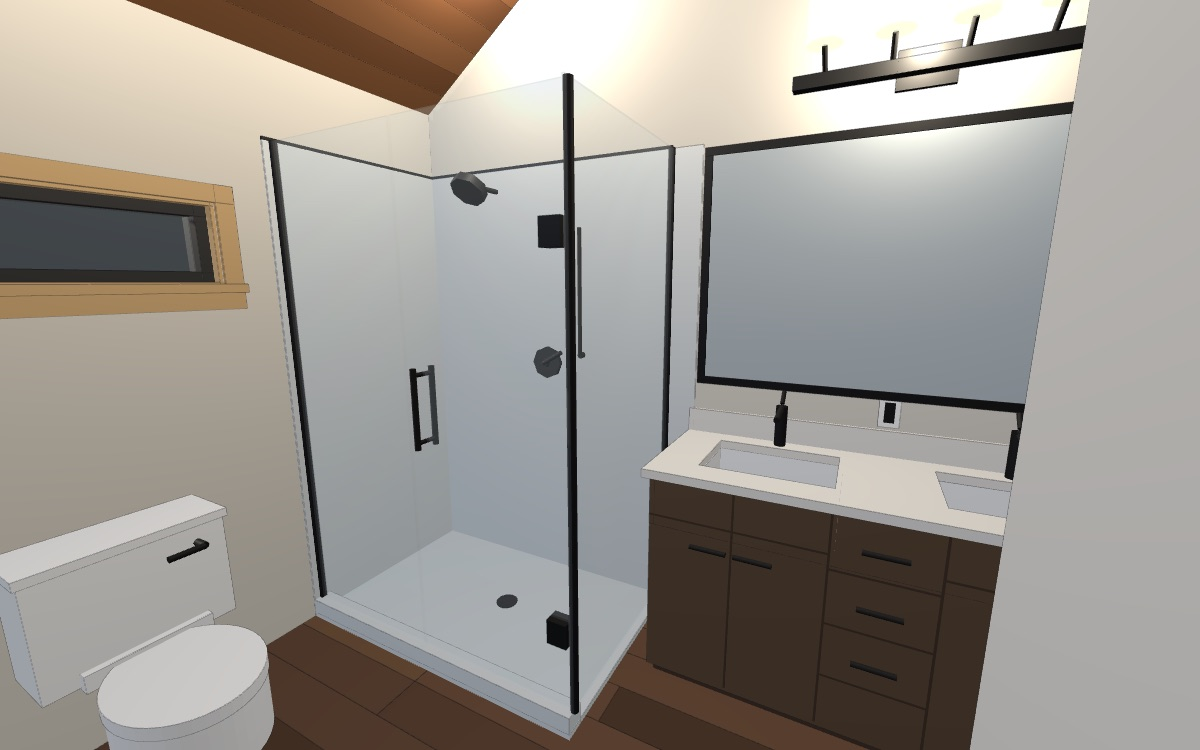
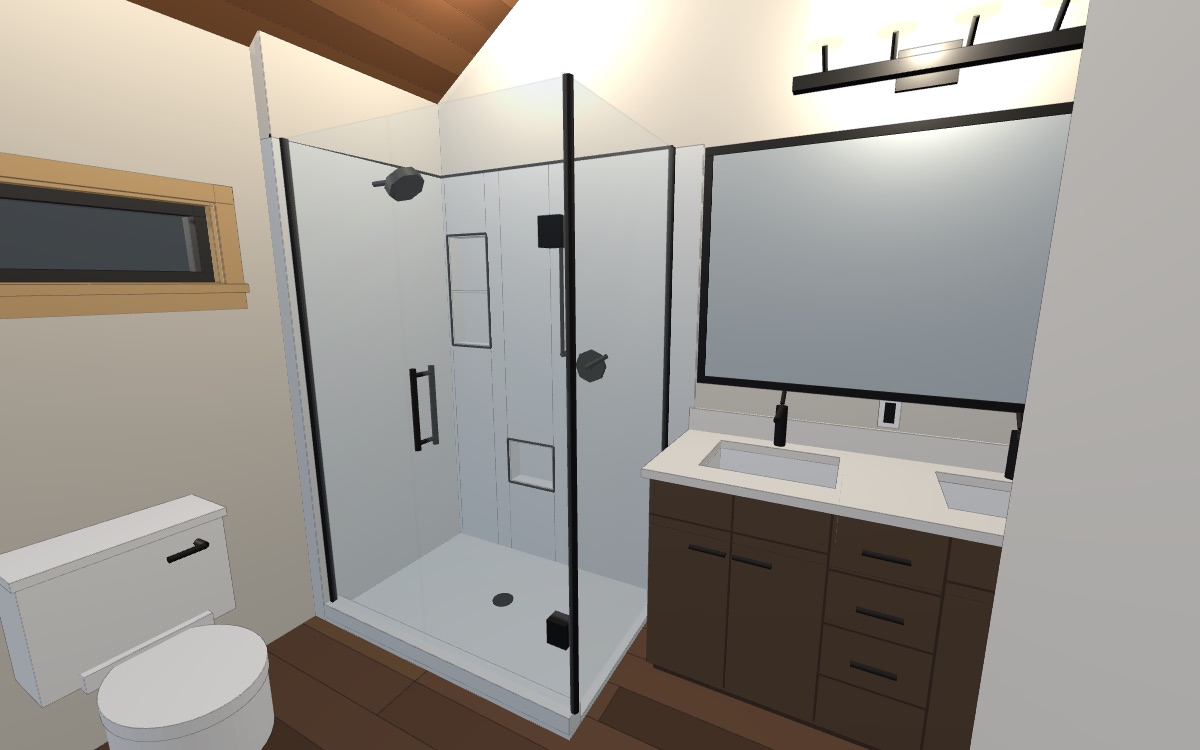
feat: option 1 west-wall shower head, stair-wall niches and a two-mirror switch

diff --git a/main-bath-option-1.html b/main-bath-option-1.html
@@ -55,7 +55,7 @@
   <div class="panel" id="header">
     <button id="hdrclose" title="Hide the caption (View &rarr; Caption brings it back)">&#x2715;</button>
     <h1>Main bath &mdash; Option 1: glass shower, north-wall plumbing</h1>
-    <div class="sub">Valve wall removed; the shower grows to a 35 1/2" x 55 1/2" strip behind frameless glass with a 5" cleaning slot to the vanity end (owner 2026-09-09), valve and head on the stair wall, entry door on the south glass hinged at the glass corner. Toilet and drains unchanged. 138 Tahoma St E, Packwood &middot; one of five layout options for the upper-floor <b>MAIN BATH</b> that remove the framed wall between shower and vanity. Room shell, window F, door 13 RO and the 60" vanity are as built / as drawn in <code>outputs/main-bath-3d.html</code>; everything else is this option's proposal. <b>Orange = assumed, not on any sheet, or flagged for the engineer / plumber.</b> <b>Design option for owner review &mdash; not published. Not engineered &mdash; do not build from this.</b> Spec with clearance table: <code>outputs/main-bath-options/opt-1-glass-north-plumbing-3d-spec.md</code>. Drag to orbit &middot; scroll to zoom &middot; right-drag to pan.</div>
+    <div class="sub">Valve wall removed; the shower grows to a 35 1/2" x 52 1/2" strip behind frameless glass: head on the west wall on a 3" furred tiled chase, valve and handheld on the stair wall, shampoo niche and shaving foot rest in the stair wall, a 5" cleaning slot to the vanity end, entry door on the south glass (owner 2026-09-09). Toilet and drains unchanged. 138 Tahoma St E, Packwood &middot; one of five layout options for the upper-floor <b>MAIN BATH</b> that remove the framed wall between shower and vanity. Room shell, window F, door 13 RO and the 60" vanity are as built / as drawn in <code>outputs/main-bath-3d.html</code>; everything else is this option's proposal. <b>Orange = assumed, not on any sheet, or flagged for the engineer / plumber.</b> <b>Design option for owner review &mdash; not published. Not engineered &mdash; do not build from this.</b> Spec with clearance table: <code>outputs/main-bath-options/opt-1-glass-north-plumbing-3d-spec.md</code>. Drag to orbit &middot; scroll to zoom &middot; right-drag to pan.</div>
   </div>
   <div class="panel" id="legend">
     <h2>Legend</h2>
@@ -91,6 +91,11 @@
       <label><input type="checkbox" data-layer="context" checked> House context</label>
       <label><input type="checkbox" data-layer="label" checked> Labels</label>
       <label><input type="checkbox" data-layer="dim" checked> Dimensions</label>
+    </div>
+    <div class="row" id="variants">
+      <span class="lbl">Mirrors</span>
+      <label><input type="radio" name="mir" data-layer="mirOne" checked> One wide mirror (as drawn)</label>
+      <label><input type="radio" name="mir" data-layer="mirTwo"> Two 24" mirrors over the sinks (owner option)</label>
     </div>
     <div class="row" id="views">
       <span class="lbl">View</span>
@@ -1849,7 +1854,7 @@ scene.add(new THREE.AmbientLight(0xffffff, 0.35));
 // ---- stair / plumbing wall (north), hall wall (east), shower valve wall -------------------------------------
 {
   const z1 = D.EXT_IN, z2 = D.WE_IN;
-  prismZY([[z1, 0], [z2, 0], [z2, yc(z2)], [z1, yc(z1)]], D.WN_IN, D.WN_OUT, M.gyp, 'wallN');
+  prismZY([[z1, 0], [z2, 0], [z2, yc(z2)], [z1, yc(z1)]], D.WN_IN, D.WN_OUT, M.gyp, 'wallN', [rect(10.0, 48, 21.0, 72), rect(24.75, 18, 36.75, 28)]);   // niches (this option)
   prismZY([[D.WE_IN, 0], [D.WE_OUT, 0], [D.WE_OUT, yc(D.WE_OUT)], [D.WE_IN, yc(D.WE_IN)]], D.WS_OUT, D.WN_OUT, M.gyp, 'wallE');
 }
 
@@ -1932,26 +1937,47 @@ function showerTrim(x, z, nx, nz, zHead, xHead, L = 'shower') {
   bar(P(0, 48, 8), P(1.2, 48, 8), 0.6, M.black, L); bar(P(1.2, 48, 8), P(1.2, 72, 8), 0.4, M.black, L);   // slide bar for a handheld
 }
 
-// ---- OPTION 1 / 4 shower: 32" x 54 3/4" mud-set tile floor, glass on the south + east lines, valve/head on the north (stair) wall;
-//      east glass at z 61.5 leaves a 5" cleaning slot to the vanity end panel (owner 2026-09-09) --
+// ---- OPTION 1 / 4 shower: 32" x 51 7/8" mud-set tile floor, glass on the south + east lines; HEAD on the west wall on a 3" furred tiled
+//      chase (riser inside the thermal envelope), valve + handheld on the north (stair) wall; east glass at z 61.5 leaves a 5" cleaning slot
+//      to the vanity end panel; shampoo niche + foot rest in the stair wall (owner 2026-09-09) --
 {
-  const L = 'shower', x1 = 3.0, x2 = D.WN_IN, z1 = D.EXT_IN, z2 = 61.5, gx = 4.5, H = 84;
-  box(x1, x2, 0, 1.5, z1, z2, M.shTile, L);                                   // tiled floor (mud bed; alt. 32 x 60 acrylic base)
-  box(x1, x1 + 3, 0, 4, z1, z2, M.shTile, L);                                  // 3" curb under the south glass
-  cyl(22, 36, 1.5, 1.7, 2, M.black, L);                                        // 2" drain, joist bay 13.5..29.5
-  box(x1, x2, 0, H, z1, z1 + 0.4, M.shTile, L);                                // tile: window wall
-  box(x2 - 0.4, x2, 0, H, z1, z2, M.shTile, L);                                // tile: north wall
+  const L = 'shower', x1 = 3.0, x2 = D.WN_IN, z1 = D.EXT_IN, z2 = 61.5, gx = 4.5, H = 84, zc = 9.0;   // zc = face of the west-wall chase (2x3 furring + tile)
+  box(x1, x2, 0, 1.5, zc, z2, M.shTile, L);                                   // tiled floor (mud bed)
+  box(x1, x1 + 3, 0, 4, zc, z2, M.shTile, L);                                  // 3" curb under the south glass
+  cyl(22, 35, 1.5, 1.7, 2, M.black, L);                                        // 2" drain, joist bay 13.5..29.5
+  box(x1, x2, 0, H, z1, zc, M.shTile, L);                                      // west-wall chase, tiled to 84"
+  box(x1, x2, H, yc(zc) - 0.3, z1, zc, M.gyp, L);                              // chase above the tile, to the ceiling
+  // stair-wall niches (owner 2026-09-09): shampoo 12" x 24" (y 48-72) with a shelf, foot rest 12" x 10" (y 18-28); 3 1/2" deep,
+  // each inside one 14 1/2" stud bay (studs at z 6.75 + 16n) -- the stair wall is a shear wall, so no stud is cut
+  const NZ = [[10.0, 21.0, 48, 72, true], [24.75, 36.75, 18, 28, false]], xb = x2 + 3.5, tf = x2 - 0.4;   // shampoo at the head end, foot rest out of the spray
+  box(tf, x2, 0, H, zc, 10.0, M.shTile, L); box(tf, x2, 0, H, 21.0, 24.75, M.shTile, L); box(tf, x2, 0, H, 36.75, z2, M.shTile, L);   // tile: north wall, split
+  box(tf, x2, 0, 48, 10.0, 21.0, M.shTile, L); box(tf, x2, 72, H, 10.0, 21.0, M.shTile, L);
+  box(tf, x2, 0, 18, 24.75, 36.75, M.shTile, L); box(tf, x2, 28, H, 24.75, 36.75, M.shTile, L);
+  for (const [za, zb, ya, yb, shelf] of NZ) {
+    box(xb - 0.4, xb, ya, yb, za, zb, M.shTile, L);                                                     // back
+    box(tf, xb, ya, yb, za, za + 0.4, M.shTile, L); box(tf, xb, ya, yb, zb - 0.4, zb, M.shTile, L);       // jambs
+    box(tf, xb, ya, ya + 0.4, za, zb, M.shTile, L); box(tf, xb, yb - 0.4, yb, za, zb, M.shTile, L);       // sill (slope not drawn) + head
+    if (shelf) box(tf + 0.2, xb, (ya + yb) / 2 - 0.2, (ya + yb) / 2 + 0.2, za, zb, M.counter, L);         // mid shelf
+    for (const zz of [za, zb]) bar(V(tf - 0.1, ya, zz), V(tf - 0.1, yb, zz), 0.25, M.black, L);          // edge trim
+    for (const yy of [ya, yb]) bar(V(tf - 0.1, yy, za), V(tf - 0.1, yy, zb), 0.25, M.black, L);
+  }
+  label('Shampoo niche 11" x 24" x 3 1/2", bottom 48", mid shelf\nbetween studs (shear wall -- no stud cut)', 36, 78, 15.5, NOTE);
+  label('Foot rest 12" x 10" x 3 1/2", bottom 18", out of the spray\n(alt. 6" projecting tiled block if 3 1/2" feels shallow)', 36, 34, 30.75, NOTE);
   box(x2 - 0.4, x2, 0, H, z2, D.VAN_Z1, M.shTile, L);                          // tile carried across the 5" slot to the vanity end panel
-  box(x1, x2, H, H + 0.5, z1, z1 + 0.5, M.black, L, false); box(x2 - 0.5, x2, H, H + 0.5, z1, z2, M.black, L, false);   // edge trim
+  box(x1, x2, H, H + 0.5, zc - 0.5, zc, M.black, L, false); box(x2 - 0.5, x2, H, H + 0.5, zc, z2, M.black, L, false);   // edge trim
   // glass: south line -- fixed z 6.6..33 + 28" door z 33.4..61.1 hinged on the corner post at z 61.5; east line -- fixed x 3.4..38.1
-  glassPanel(gx - 0.19, gx + 0.19, 4, H, z1 + 0.6, 33); glassPanel(gx - 0.19, gx + 0.19, 4, H, 33.4, z2 - 0.6);
+  glassPanel(gx - 0.19, gx + 0.19, 4, H, zc + 0.6, 33); glassPanel(gx - 0.19, gx + 0.19, 4, H, 33.4, z2 - 0.6);
   glassPanel(x1 + 0.4, x2 - 0.4, 4, H, z2 - 0.19, z2 + 0.19);
-  box(gx - 0.5, gx + 0.5, 4, H, z1 + 0.4, z1 + 1.0, M.black, 'glass');                     // wall channel, window wall
+  box(gx - 0.5, gx + 0.5, 4, H, zc + 0.4, zc + 1.0, M.black, 'glass');                     // wall channel, on the chase
   box(x2 - 1.0, x2 - 0.4, 4, H, z2 - 0.5, z2 + 0.5, M.black, 'glass');                     // wall channel, north end of the east panel
   cyl(gx, z2, 4, H, 0.6, M.black, 'glass');                                                // corner post
   for (const y of [14, 66]) box(gx - 1.1, gx + 1.1, y, y + 3.5, z2 - 3.6, z2 - 0.6, M.black, 'glass');   // hinges at the post
   for (const sx of [-1, 1]) { bar(V(gx + sx * 1.7, 38, 36.5), V(gx + sx * 1.7, 50, 36.5), 0.45, M.black, 'glass'); for (const y of [39, 49]) bar(V(gx, y, 36.5), V(gx + sx * 1.7, y, 36.5), 0.35, M.black, 'glass'); }   // pull at the free edge
-  showerTrim(x2 - 0.4, 36, -1, 0, 24, null);                                    // valve z 36 y 46; head z 24 y 80; slide bar z 44
+  const xf = x2 - 0.4;                                                          // valve z 46 y 46 + slide bar z 40 on the stair wall (reach-in from the door)
+  bar(V(xf, 46, 46), V(xf - 1.0, 46, 46), 3.2, M.black, L); bar(V(xf - 1.0, 46, 46), V(xf - 2.2, 46, 46), 0.9, M.black, L); bar(V(xf - 2.2, 46, 46), V(xf - 2.6, 48.5, 50.5), 0.45, M.black, L);
+  bar(V(xf, 48, 40), V(xf - 1.2, 48, 40), 0.6, M.black, L); bar(V(xf - 1.2, 48, 40), V(xf - 1.2, 72, 40), 0.4, M.black, L);
+  bar(V(21, 80, zc), V(21, 80, zc + 7.5), 0.5, M.black, L); bar(V(21, 80, zc + 7.5), V(21, 78.6, zc + 8.6), 3.4, M.black, L);   // HEAD on the west-wall chase, spraying east
+  label('Head on the west wall: 3" furred, tiled chase (2x3 + tile) keeps the riser\ninside the thermal envelope; fed from the stair-wall valve along the stair wall', 21, 92, zc, FLAG);
   arc(gx, z2, 28, 180, 270);                                                    // door swing, out toward the room centre
   label('5" cleaning slot between the glass and the vanity end panel\n(owner 2026-09-09); stair-wall tile runs through it', 22, 88, 64, NOTE);
 }
@@ -1983,10 +2009,13 @@ function showerTrim(x, z, nx, nz, zHead, xHead, L = 'shower') {
     bar(V(D.FAUCET_X, cy + D.CTR_T + 6.2, zc), V(D.FAUCET_X - 5.2, cy + D.CTR_T + 5.4, zc), 0.5, M.black, L);
     bar(V(D.FAUCET_X, cy + D.CTR_T + 6.9, zc), V(D.FAUCET_X + 1.6, cy + D.CTR_T + 8.6, zc), 0.35, M.black, L);
   }
-  box(x2 - 0.75, x2 - 0.05, D.MIR_Y1, D.MIR_Y2, D.MIR_Z1, D.MIR_Z2, M.mirror, L, false);   // mirror
-  const f = 1.25;
-  box(x2 - 1.0, x2, D.MIR_Y1 - f, D.MIR_Y1, D.MIR_Z1 - f, D.MIR_Z2 + f, M.black, L); box(x2 - 1.0, x2, D.MIR_Y2, D.MIR_Y2 + f, D.MIR_Z1 - f, D.MIR_Z2 + f, M.black, L);
-  box(x2 - 1.0, x2, D.MIR_Y1, D.MIR_Y2, D.MIR_Z1 - f, D.MIR_Z1, M.black, L); box(x2 - 1.0, x2, D.MIR_Y1, D.MIR_Y2, D.MIR_Z2, D.MIR_Z2 + f, M.black, L);
+  const f = 1.25, mir = (za, zb, v) => {                                          // mirror + black frame; v = Mirrors radio variant
+    tagV(box(x2 - 0.75, x2 - 0.05, D.MIR_Y1, D.MIR_Y2, za, zb, M.mirror, L, false), v);
+    tagV(box(x2 - 1.0, x2, D.MIR_Y1 - f, D.MIR_Y1, za - f, zb + f, M.black, L), v); tagV(box(x2 - 1.0, x2, D.MIR_Y2, D.MIR_Y2 + f, za - f, zb + f, M.black, L), v);
+    tagV(box(x2 - 1.0, x2, D.MIR_Y1, D.MIR_Y2, za - f, za, M.black, L), v); tagV(box(x2 - 1.0, x2, D.MIR_Y1, D.MIR_Y2, zb, zb + f, M.black, L), v);
+  };
+  mir(D.MIR_Z1, D.MIR_Z2, 'mirOne');                                                // one wide mirror (BoD "Mirrors", size assumed)
+  for (const zs of D.SINK_Z) mir(zs - 12, zs + 12, 'mirTwo');                       // two 24" mirrors centred on the sinks (owner option 2026-09-09)
   // Bellevue EGBF34685 33" 4-light bar over the mirror (BoD row 44); E01 draws two wall fixtures at the vanity ends instead
   const by = D.MIR_Y2 + 8, zc = D.BAR_ZC, hl = D.BAR_L / 2;
   box(x2 - 0.75, x2, by - 2.5, by + 2.5, zc - 3.5, zc + 3.5, M.black, L);
@@ -2092,8 +2121,8 @@ function showerTrim(x, z, nx, nz, zHead, xHead, L = 'shower') {
 
 // ---- labels -----------------------------------------------------------------------------------------------------------
 label('OPTION 1 -- glass shower, north-wall plumbing\nvalve wall removed; toilet + drains unchanged', -10, 76, 80);
-label('Shower 32" x 54 3/4" inside, mud-set tile\n1,745 sq in; 30" circle fits; glass to 7\'-0"', 22, 96, 30, NOTE);
-label('Valve z 36 / head z 24 on the stair wall: supplies rise\nin this 2x6 wall beside the lav supplies; drain in bay 13.5..29.5', 34, 60, 30, NOTE);
+label('Shower 32" x 51 7/8" inside, mud-set tile\n1,656 sq in; 30" circle fits; glass to 7\'-0"', 22, 96, 30, NOTE);
+label('Valve z 46 + handheld on the stair wall: supplies rise in this 2x6 wall\nbeside the lav supplies; drain in bay 13.5..29.5', 34, 60, 46, NOTE);
 label('Door on the south glass, hinged at the corner post,\nopens out toward the room centre (26" clear)', 4.5, 60, 52, NOTE);
 label('Window F  RO 36 1/2" x 12", sill 61 1/2" (field)\noutside the shower; tempered recommended (~63" bottom edge)', -23, 80, 3, FLAG);
 label('Door 13  30" x 84"  RH in-swing, as framed', -46, 96, 92);
@@ -2111,8 +2140,12 @@ dim(V(D.WS_IN, 2, 20), V(D.WC_X, 2, 20), '25 1/2" WC CL to wall (min 15)', V(0, 
 dim(V(D.WC_X, 2, 20), V(4.5, 2, 20), '27 1/2" WC CL to glass (min 15)', V(0, 0, 0), V(0, 1, 0));
 dim(V(D.WC_X, 2, 34), V(D.WC_X, 2, D.DOOR_Z1), '43" in front of WC (min 24)', V(0, 0, 0), V(0, 1, 0));
 dim(V(6, 6, 36), V(37.9, 6, 36), '31.9" shower inside', V(0, 0, 0), V(0, 1, 0));
-dim(V(20, 6, 6.6), V(20, 6, 61.3), '54 3/4" shower inside', V(0, 0, 0), V(0, 1, 0));
+dim(V(20, 6, 9.4), V(20, 6, 61.3), '51 7/8" shower inside', V(0, 0, 0), V(0, 1, 0));
+dim(V(30, 6, 6), V(30, 6, 9), '3" chase', V(0, 0, 0), V(0, 1, 0));
 dim(V(30, 6, 61.7), V(30, 6, D.VAN_Z1), '5" slot', V(0, 0, 0), V(0, 1, 0));
+dim(V(37, 74, 10), V(37, 74, 21), 'niche 11"', V(0, 0, 0), V(0, 1, 0));
+dim(V(37, 48, 22.5), V(37, 72, 22.5), '24" (48"-72")', V(0, 0, 0), V(0, 0, 1));
+dim(V(37, 18, 38), V(37, 28, 38), 'foot rest 10" (18"-28")', V(0, 0, 0), V(0, 0, 1));
 dim(V(4.5, 6, 33.4), V(4.5, 6, 61.1), 'door 28" (26" clear, min 22)', V(0, 0, 0), V(0, 1, 0));
 dim(V(-14, 2, 96), V(D.CTR_X1, 2, 96), '30" in front of vanity (NKBA)', V(0, 0, 0), V(0, 1, 0));
 dim(V(D.CTR_X1 - 4, D.CTR_Y + 6, D.VAN_Z1), V(D.CTR_X1 - 4, D.CTR_Y + 6, D.VAN_Z2), '60"', V(0, 0, 0), V(0, 1, 0));
@@ -2121,7 +2154,7 @@ dim(V(D.WIN_X2 + 8, 0, D.EXT_IN + 1), V(D.WIN_X2 + 8, D.WIN_SILL, D.EXT_IN + 1),
 // ===== END EDIT: GEOMETRY =====
 
 // --- UI wiring (do not rewrite; the layer/view names come from the HTML + VIEWS above) -----------
-const layerBoxes = [...document.querySelectorAll('#layers input')];   // checkboxes + the wall-height radios
+const layerBoxes = [...document.querySelectorAll('#layers input, #variants input')];   // checkboxes + the wall-height radios
 function applyLayers() {
   const on = {};
   for (const cb of layerBoxes) on[cb.dataset.layer] = cb.checked;

diff --git a/index.html b/index.html
@@ -134,8 +134,9 @@
       <div class="body">
         <h3><a href="main-bath-option-1.html">Main bath &mdash; option 1: glass shower, stair-wall plumbing</a></h3>
         <p>The layout option under review next to the drawing above: the framed wall between shower and vanity is
-        gone, the shower grows to a 35 1/2" x 55 1/2" strip behind frameless glass with its valve and head on the
-        stair wall, a 5" cleaning slot between the glass and the vanity end, and the door swings out from the glass corner. Toilet, window and drains stay put. Orange marks
+        gone, the shower grows to a 35 1/2" x 52 1/2" strip behind frameless glass: head on the west wall on a furred tiled chase,
+        valve and handheld on the stair wall, shampoo niche and shaving foot rest in the stair wall, a 5" cleaning slot between
+        the glass and the vanity end, and the door swings out from the glass corner. A Mirrors switch compares one wide mirror with two. Toilet, window and drains stay put. Orange marks
         the assumptions; the Plan view carries every code clearance as a dimension.</p>
         <span class="meta">Updated 2026-09-09 &middot; 8 camera views &middot; layout option, not yet chosen &middot; not engineered</span>
         <div class="chips">
@@ -143,6 +144,7 @@
           <a href="main-bath-option-1.html?view=door&amp;caption=0">From the door</a>
           <a href="main-bath-option-1.html?view=shower&amp;caption=0">Shower</a>
           <a href="main-bath-option-1.html?view=top&amp;show=dim&amp;hide=label">Plan + clearances</a>
+          <a href="main-bath-option-1.html?view=vanity&amp;show=mirTwo&amp;caption=0">Two mirrors</a>
           <a href="main-bath.html?view=door&amp;caption=0">Compare: as drawn</a>
         </div>
       </div>
